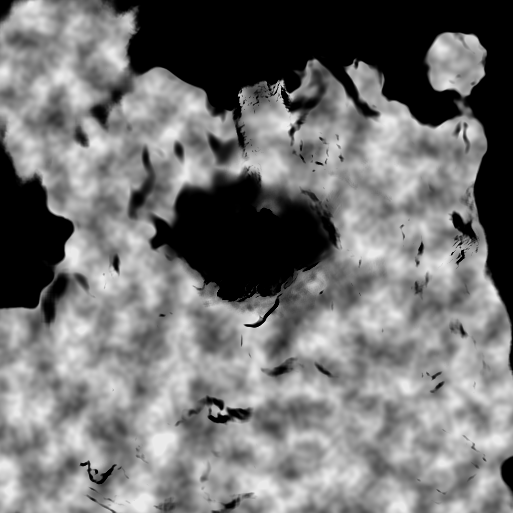
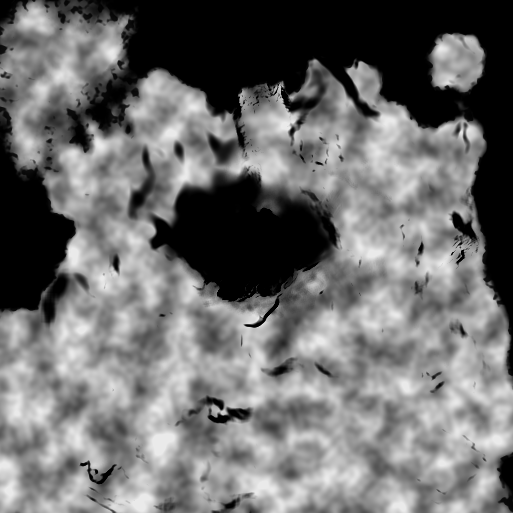
Liven the sea, blend the shoreline and hollow out a crystal grotto
Sea (water.gdshader): short chop waves (~20-25 m) ride the broad swell,
with whitecaps dusted on the crests. The wave sum now returns its analytic
slope and tilts the fragment normal - without that the displacement was a
silent wobble the shading never saw. Sea mesh subdivision 160 -> 220 so
the chop wavelengths stay above the quad size.

Shoreline: the hard grass->sand cut becomes the same speckled transition
as the mountain's grass->stone band. That look turned out to be the
terrain shader's depth blending (bumpier texture wins per-pixel at mid
splat weights), and sand's bump contrast already matches stone's - so the
whole fix is widening the beach fade (SAND_FADE_H 11.6 -> 14.6 map, world
~17.4 -> ~21.9) and letting the shader speckle it. A first attempt with
25 m noise blobs looked wrong (blobs saturate, dither only at rims) and
was deleted. Splat/detail maps repainted; sand now 19.6% of the map.

Crystal grotto (world_scatter.gd): the walkable cave prototype at
(228, 47.4, -60) on the mountain's east flank. Heightmap terrain cannot
hold true caves, so it is a hemisphere shell of oversized scatter boulders
in three rings with a wide (+/-62 deg) east-facing mouth - webcam steering
needs a forgiving entrance - plus an amber lamp and emissive crystal
clusters (ScatterMeshes.build_crystal). It rides the existing boulder
MultiMesh + PhysicsServer collider path, appended after the MAX_ROCKS cap
so thinning can never delete the landmark; ordinary scatter keeps 15 m
clear.
[…]

diff --git a/CONTEXT.md b/CONTEXT.md
@@ -149,6 +149,15 @@ Initialisation order (and dependencies):
   running are ignored (button-mash guard); the fade tweens are pause-immune so a
   paused tree can't wedge the transition. `change_scene` is now `void`/async —
   the swap lands a fade later, which no caller depended on.
+- The target scene is loaded on a **background thread**
+  (`ResourceLoader.load_threaded_request` behind the black; `use_sub_threads`
+  must stay **false** — parallel sub-thread loading fails to compile scripts
+  that reference autoloads, surfacing as a bogus "Parse Error: Failed" on the
+  scene). If a load outlasts `LOADING_UI_DELAY_SEC` (0.2 s), SceneManager
+  overlays `loading_screen.tscn` above the fade and feeds its bar real
+  progress via `set_progress()` — menus never see it, heavy game scenes do.
+  So the app never freezes on a scene swap, and `loading_screen.tscn` is no
+  longer a routed-to standalone screen.
 - **No other file may contain a `res://….tscn` literal or call
   `get_tree().change_scene_*` directly.** Games are launched generically from a
   path stored in the GameManager registry, which itself references SceneManager
@@ -570,7 +579,17 @@ by design — with no service running the texture is null and the UI falls back 
   Non-obvious numbers: the roamable midlands INCLUDING THE SPAWN PLATEAU sit
   at world y ~64-68 — vegetation bands tuned "sensibly" against sea level
   (13.5) left the first meadow the player ever sees bare; the treeline runs to
-  66 and full grass to ~65 for exactly that reason. Verified via
+  66 and full grass to ~65 for exactly that reason.
+  *The crystal grotto (2026-07-18)*: the walkable cave prototype, built by
+  `world_scatter.gd` (`GROTTO_POS` (228, 47.4, −60), mountain's east flank,
+  ~195 m west of spawn). Heightmap terrain cannot hold true caves, so it is a
+  hemisphere shell of oversized scatter boulders (three rings; ±62° mouth gap
+  facing east — wide because webcam steering is imprecise) with an amber
+  OmniLight + emissive crystal clusters (`ScatterMeshes.build_crystal`) inside.
+  It rides the existing boulder MultiMesh + PhysicsServer collider path and is
+  appended AFTER the MAX_ROCKS cap so thinning can never delete the landmark;
+  ordinary scatter keeps `GROTTO_CLEAR_RADIUS` (15 m) away. Site found with
+  `tools/probe_spot.gd` (`SPOTS="x,z;..."` prints height/slope/downhill). Verified via
   `scenes/tests/ground_view.tscn` (`GV_POS="x,y,z" GV_AT="x,y,z" bash
   tools/shot.sh name scenes/tests/ground_view.tscn` — head-height camera,
   defaults to the spawn meadow). NB a camera placed below the terrain surface
@@ -772,7 +791,9 @@ same controller works with the camera today or another input source later.
 	  players have no strap, and an absent-state row would be noise. Still open:
 	  an HR chip in the Zombie Run HUD (kept out for now — that HUD's rule is
 	  "no numbers that quantify the tension") and per-day HR on the dashboard.
-- [ ] Async loading via `LoadingScreen` for heavy game scenes.
+- [x] Async loading via `LoadingScreen` for heavy game scenes — SceneManager
+	  threads every scene load and overlays the loading screen with real
+	  progress when a load runs long (see §5 SceneManager).
 - [x] Global UI `Theme` in `assets/ui/` for consistent styling — `assets/ui/main_theme.tres`
 	  styles Button (+ a `PrimaryButton` type variation) and sets a default Rajdhani
 	  font. Applied across the menu scenes (Main Menu, Game Select, Settings, Profile,
